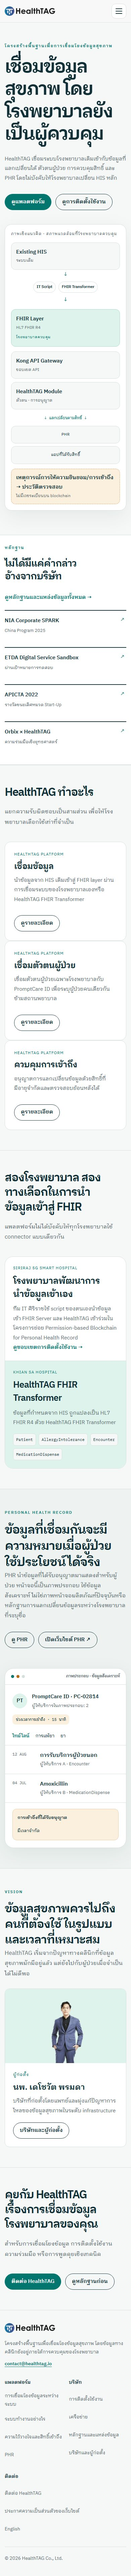
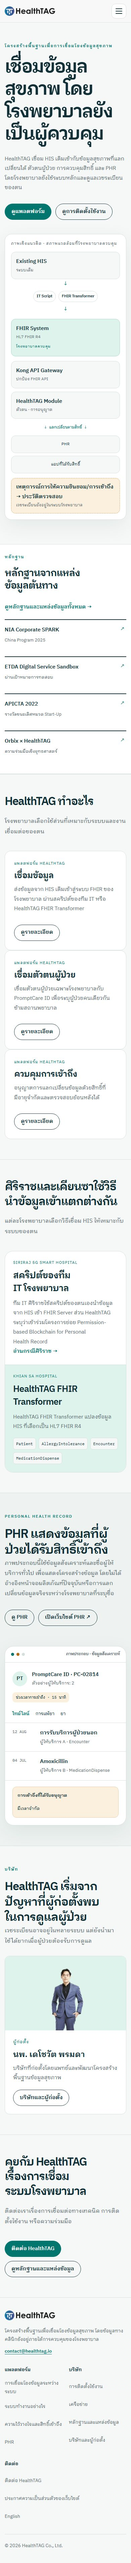
refactor: simplify public copy and network labels

Changed region(s): [[0.0308, 0.0312, 0.9538, 0.9352], [0.9231, 0.2494, 0.9538, 0.2805], [0.8, 0.4364, 0.8308, 0.4676]]

diff --git a/src/data/site-content.ts b/src/data/site-content.ts
@@ -4,32 +4,32 @@ export type PageCopy = { label: string; title: string; intro: string; sections: 
 
 export const pageContent: Record<string, Record<Locale, PageCopy>> = {
   interoperability: {
-    th:{label:'การเชื่อมโยงข้อมูลระหว่างระบบ',title:'เชื่อม HIS เดิมเข้าสู่ FHIR โดยไม่บังคับให้ใช้วิธีนำข้อมูลเข้าแบบเดียว',intro:'โรงพยาบาลสามารถใช้การเชื่อมระบบที่ทีม IT พัฒนาเอง หรือใช้ HealthTAG FHIR Transformer เพื่อนำข้อมูลเข้าสู่ FHIR layer',sections:[{heading:'ชุดระบบ FHIR ปัจจุบัน',body:'HAPI FHIR Server ใช้มาตรฐาน HL7 FHIR R4 และใช้ PostgreSQL เป็นชั้นจัดเก็บข้อมูล'},{heading:'ขอบเขต API',body:'Kong API Gateway ปกป้อง HAPI FHIR API ส่วน HealthTAG Module หรือ Hospital API ทำงานภายในเครือข่ายโรงพยาบาล'},{heading:'ขอบเขต FHIR Transformer',body:'การติดตั้งที่ยืนยันแล้วในปัจจุบันสร้าง Patient, AllergyIntolerance, Encounter และ MedicationDispense'}]},
-    en:{label:'Data Interoperability',title:'Connect existing HIS systems to FHIR without forcing one ingestion path.',intro:'Hospitals can use their own IT integration or HealthTAG FHIR Transformer to populate the FHIR layer.',sections:[{heading:'Current FHIR stack',body:'HAPI FHIR Server implements HL7 FHIR R4 with PostgreSQL as the persistence layer.'},{heading:'API boundary',body:'Kong API Gateway protects the HAPI FHIR API while HealthTAG Module, or Hospital API, runs inside the hospital network.'},{heading:'FHIR Transformer scope',body:'The currently described Transformer implementation creates Patient, AllergyIntolerance, Encounter, and MedicationDispense resources.'}]}
+    th:{label:'การเชื่อมโยงข้อมูลระหว่างระบบ',title:'เชื่อม HIS เดิมกับ FHIR ที่โรงพยาบาลควบคุม',intro:'โรงพยาบาลเลือกใช้สคริปต์ของทีม IT หรือ HealthTAG FHIR Transformer เพื่อนำข้อมูลเข้าสู่ FHIR',sections:[{heading:'ระบบ FHIR',body:'HAPI FHIR Server ใช้มาตรฐาน HL7 FHIR R4 และจัดเก็บข้อมูลด้วย PostgreSQL'},{heading:'การปกป้อง API',body:'Kong API Gateway ปกป้อง HAPI FHIR API ส่วน HealthTAG Module หรือ Hospital API ทำงานภายในเครือข่ายโรงพยาบาล'},{heading:'FHIR resources ที่ใช้งาน',body:'การติดตั้งที่เคียนซาใช้ Patient, AllergyIntolerance, Encounter และ MedicationDispense'}]},
+    en:{label:'Data Interoperability',title:'Connect an existing HIS to hospital-controlled FHIR.',intro:'Hospitals can use an IT-managed script or HealthTAG FHIR Transformer to send data to FHIR.',sections:[{heading:'FHIR system',body:'HAPI FHIR Server implements HL7 FHIR R4 and stores data in PostgreSQL.'},{heading:'API protection',body:'Kong API Gateway protects the HAPI FHIR API. HealthTAG Module, or Hospital API, runs inside the hospital network.'},{heading:'FHIR resources in use',body:'The Khian Sa implementation uses Patient, AllergyIntolerance, Encounter, and MedicationDispense.'}]}
   },
   phr:{
-    th:{label:'Personal Health Record',title:'หนึ่งคน หลายโรงพยาบาล มุมมองข้อมูลที่เชื่อมกัน',intro:'PHR เป็นชั้นแอปพลิเคชันที่นำข้อมูลซึ่งได้รับอนุญาตมาแสดงในมุมมองเดียวสำหรับผู้ป่วย',sections:[{heading:'PromptCare ID',body:'HealthTAG Module เชื่อมตัวตนผู้ป่วยเฉพาะโรงพยาบาลกับ PromptCare ID เพื่อช่วยจับคู่ผู้ป่วยคนเดียวกันข้ามผู้ให้บริการ'},{heading:'การเข้าถึงสำหรับผู้ป่วย',body:'PHR ใช้ข้อมูลจาก FHIR และชั้นการอนุญาต เพื่อให้ผู้ป่วยเข้าถึงข้อมูลที่ได้รับสิทธิ์โดยไม่ต้องสร้างฐานข้อมูลเวชระเบียนชุดใหม่แยกจากโรงพยาบาล'}]},
-    en:{label:'Personal Health Record',title:'One patient. Multiple providers. One connected view.',intro:'The PHR is the patient-facing application layer that presents authorized records from multiple providers in one view.',sections:[{heading:'PromptCare ID',body:'HealthTAG Module links hospital-local patient identities with a PromptCare ID to support matching the same person across providers.'},{heading:'Patient-facing access',body:'The PHR uses the FHIR and authorization layers to present permitted records without creating a separate replacement clinical database.'}]}
+    th:{label:'Personal Health Record',title:'ข้อมูลที่ได้รับอนุญาตในมุมมองเดียว',intro:'PHR แสดงข้อมูลที่ผู้ป่วยได้รับสิทธิ์เข้าถึงจากระบบของโรงพยาบาล',sections:[{heading:'PromptCare ID',body:'HealthTAG Module เชื่อมตัวตนผู้ป่วยของแต่ละโรงพยาบาลกับ PromptCare ID เพื่อจับคู่ข้อมูลของคนเดียวกัน'},{heading:'การเข้าถึงสำหรับผู้ป่วย',body:'PHR อ่านข้อมูล FHIR ที่ได้รับอนุญาตและนำมาแสดง โดยไม่สร้างฐานข้อมูลเวชระเบียนอีกชุด'}]},
+    en:{label:'Personal Health Record',title:'Authorized health records in one view.',intro:'The PHR presents records that a patient is authorized to access from hospital systems.',sections:[{heading:'PromptCare ID',body:'HealthTAG Module links each hospital patient identity to PromptCare ID so records can be matched to the same person.'},{heading:'Patient access',body:'The PHR reads authorized FHIR records from hospital systems and presents them to the patient.'}]}
   },
   'how-it-works':{
-    th:{label:'ระบบทำงานอย่างไร',title:'Connect → Standardize → Identify → Authorize → Exchange → Audit',intro:'แต่ละส่วนมีหน้าที่แยกกันชัดเจน ตั้งแต่การนำข้อมูลเข้าไปจนถึงการแลกเปลี่ยนและตรวจสอบย้อนหลัง',sections:[{heading:'1. เชื่อมข้อมูล',body:'ข้อมูลจาก HIS เข้าสู่ FHIR layer ผ่านสคริปต์ของโรงพยาบาลหรือ HealthTAG FHIR Transformer'},{heading:'2. ทำให้เป็นมาตรฐาน',body:'ข้อมูลถูกแทนในรูปแบบ HL7 FHIR R4 เพื่อให้ระบบปลายทางใช้โครงสร้างข้อมูลร่วมกัน'},{heading:'3. เชื่อมตัวตน',body:'HealthTAG Module เชื่อมตัวตนผู้ป่วยเฉพาะโรงพยาบาลกับ PromptCare ID เพื่อรองรับข้อมูลจากหลายผู้ให้บริการ'},{heading:'4. อนุญาตสิทธิ์',body:'ระบบตรวจว่าผู้ขอมีสิทธิ์เข้าถึงข้อมูลชุดนั้นในช่วงเวลาที่กำหนดหรือไม่'},{heading:'5. แลกเปลี่ยน',body:'ข้อมูล FHIR ถูกส่งออกผ่านเส้นทางที่ได้รับอนุญาต'},{heading:'6. ตรวจสอบย้อนหลัง',body:'เหตุการณ์การให้ความยินยอมและการเข้าถึงถูกบันทึกเพื่อตรวจสอบย้อนหลัง'}]},
-    en:{label:'How It Works',title:'Connect → Standardize → Identify → Authorize → Exchange → Audit',intro:'Each layer has a distinct responsibility from data ingestion through authorized exchange and auditability.',sections:[{heading:'1. Connect',body:'HIS data enters the FHIR layer through a hospital IT script or HealthTAG FHIR Transformer.'},{heading:'2. Standardize',body:'Clinical information is represented as HL7 FHIR R4 so downstream systems share a common structure.'},{heading:'3. Identify',body:'HealthTAG Module links hospital-local patient identities with PromptCare ID across providers.'},{heading:'4. Authorize',body:'The system verifies whether the requester may access the requested information for the permitted period.'},{heading:'5. Exchange',body:'FHIR data is returned only through an authorized request path.'},{heading:'6. Audit',body:'Consent and access events are recorded for later verification.'}]}
+    th:{label:'ระบบทำงานอย่างไร',title:'จาก HIS ถึงการตรวจสอบย้อนหลังใน 6 ขั้น',intro:'ภาพรวมนี้อธิบายหน้าที่ของแต่ละส่วน ตั้งแต่การนำข้อมูลเข้า FHIR จนถึงการบันทึกเหตุการณ์เข้าถึง',sections:[{heading:'1. เชื่อมข้อมูล',body:'ข้อมูลจาก HIS เข้าสู่ FHIR ผ่านสคริปต์ของโรงพยาบาลหรือ HealthTAG FHIR Transformer'},{heading:'2. ทำให้เป็นมาตรฐาน',body:'ข้อมูลอยู่ในรูปแบบ HL7 FHIR R4 เพื่อให้ระบบที่เชื่อมต่อกันใช้โครงสร้างเดียวกัน'},{heading:'3. เชื่อมตัวตน',body:'HealthTAG Module เชื่อมตัวตนผู้ป่วยของแต่ละโรงพยาบาลกับ PromptCare ID'},{heading:'4. ตรวจสอบสิทธิ์',body:'Hospital API ตรวจสิทธิ์และช่วงเวลาการเข้าถึงก่อนส่งข้อมูล'},{heading:'5. แลกเปลี่ยน',body:'ระบบส่งข้อมูล FHIR ตามสิทธิ์ไปยัง PHR หรือแอปที่ได้รับอนุญาต'},{heading:'6. บันทึกเหตุการณ์',body:'Blockchain บันทึกเหตุการณ์การให้ความยินยอมและการเข้าถึงเพื่อตรวจสอบภายหลัง'}]},
+    en:{label:'How It Works',title:'Six stages from HIS ingestion to audit.',intro:'This overview follows each responsibility from FHIR ingestion to the record of an access event.',sections:[{heading:'1. Connect',body:'HIS data enters FHIR through a hospital IT script or HealthTAG FHIR Transformer.'},{heading:'2. Standardize',body:'HL7 FHIR R4 gives connected systems a shared data structure.'},{heading:'3. Identify',body:'HealthTAG Module links each hospital patient identity to PromptCare ID.'},{heading:'4. Authorize',body:'Hospital API checks permission and the access window before returning data.'},{heading:'5. Exchange',body:'The system sends authorized FHIR data to the PHR or another approved application.'},{heading:'6. Record',body:'Blockchain records consent and access events for later review.'}]}
   },
   trust:{
-    th:{label:'ความไว้วางใจและสิทธิ์เข้าถึง',title:'แยกการดูแลข้อมูล การอนุญาต และการตรวจสอบย้อนหลังออกจากกัน',intro:'โรงพยาบาลเป็นผู้ควบคุมชั้นข้อมูลทางคลินิก ขณะที่ HealthTAG เพิ่มกลไกเชื่อมตัวตน การอนุญาต และการตรวจสอบรอบการแลกเปลี่ยนข้อมูล',sections:[{heading:'ข้อมูลทางคลินิกอยู่ที่ไหน',body:'เวชระเบียนอยู่ในโครงสร้างพื้นฐาน FHIR ฝั่งโรงพยาบาล ไม่ได้ถูกเก็บเป็นเวชระเบียนบน blockchain'},{heading:'การอนุญาตเข้าถึง',body:'HealthTAG Module อยู่ในเครือข่ายโรงพยาบาล และช่วงเวลาการเข้าถึงปัจจุบันคือ 15 นาที'},{heading:'ประวัติเหตุการณ์ที่แก้ย้อนหลังได้ยาก',body:'Blockchain ใช้บันทึกเหตุการณ์การให้ความยินยอมและการเข้าถึง ไม่ได้ใช้แทน authentication, encryption หรือ API security'}]},
-    en:{label:'Trust & Access',title:'Separate data custody, authorization, and audit responsibilities.',intro:'The hospital controls the clinical-data layer while HealthTAG adds identity, authorization, and audit mechanisms around exchange.',sections:[{heading:'Where clinical data lives',body:'Clinical records remain in hospital FHIR infrastructure and are not stored as medical records on the blockchain.'},{heading:'Access authorization',body:'HealthTAG Module runs inside the hospital network, and the current authorization window lasts 15 minutes.'},{heading:'Immutable ledger',body:'Blockchain records consent and access events as a tamper-resistant history. It does not replace authentication, encryption, or API security.'}]}
+    th:{label:'ความไว้วางใจและสิทธิ์เข้าถึง',title:'ใครดูแลข้อมูล และระบบตรวจสิทธิ์อย่างไร',intro:'โรงพยาบาลเก็บเวชระเบียนไว้ในระบบของตน ส่วน HealthTAG เชื่อมตัวตน ตรวจสิทธิ์ ปกป้อง API และบันทึกเหตุการณ์เข้าถึง',sections:[{heading:'เวชระเบียนอยู่ที่โรงพยาบาล',body:'เวชระเบียนอยู่ในโครงสร้างพื้นฐาน FHIR ของโรงพยาบาล ส่วน blockchain เก็บเฉพาะเหตุการณ์การให้ความยินยอมและการเข้าถึง'},{heading:'การตรวจสิทธิ์',body:'Hospital API ตรวจช่วงเวลาการเข้าถึง 15 นาทีที่กำหนดจากสถานะบน blockchain'},{heading:'การปกป้อง API',body:'Kong ปกป้อง HAPI FHIR API ขณะที่ authentication, encryption และการปฏิบัติการยังต้องทำงานร่วมกัน'}]},
+    en:{label:'Trust & Access',title:'Who holds the records and how access is checked.',intro:'Hospitals keep clinical records in their own systems. HealthTAG links identity, checks permission, protects the API, and records access events.',sections:[{heading:'Hospitals hold clinical records',body:'Clinical records stay in hospital FHIR infrastructure. Blockchain stores consent and access events.'},{heading:'Hospital API checks access',body:'Hospital API checks the 15-minute access window defined from blockchain state.'},{heading:'Kong protects the FHIR API',body:'Kong protects the HAPI FHIR API while authentication, encryption, and hospital operations provide other safeguards.'}]}
   },
   deployments:{
-    th:{label:'การติดตั้งใช้งาน',title:'สองการติดตั้ง สองทางเลือกในการนำข้อมูลเข้า ภายใต้สถาปัตยกรรมเดียวกัน',intro:'การใช้งานจริงแสดงให้เห็นว่า HealthTAG รองรับทั้งการเชื่อมระบบที่โรงพยาบาลพัฒนาเองและ FHIR Transformer ของ HealthTAG',sections:[{heading:'Siriraj 5G Smart Hospital',body:'HealthTAG ยืนยันการเข้าร่วมโครงการย่อย Permission-based Blockchain for Personal Health Record โดยทีม IT ศิริราชใช้สคริปต์ของตนเองนำข้อมูลจาก HIS เข้า FHIR Server และไม่ได้ใช้ HealthTAG FHIR Transformer'},{heading:'โรงพยาบาลเคียนซา',body:'ใช้ HealthTAG FHIR Transformer แปลงข้อมูลที่กำหนดจาก HIS เป็น HL7 FHIR R4 resources'}]},
-    en:{label:'Deployments',title:'Two deployments, two ingestion paths, one interoperability architecture.',intro:'Real deployments demonstrate both hospital-developed integration and HealthTAG FHIR Transformer.',sections:[{heading:'Siriraj 5G Smart Hospital',body:'HealthTAG participated in the Permission-based Blockchain for Personal Health Record workstream. Siriraj IT uses its own script to populate the FHIR Server and does not use HealthTAG FHIR Transformer.'},{heading:'Khian Sa Hospital',body:'HealthTAG FHIR Transformer maps selected HIS data into HL7 FHIR R4 resources.'}]}
+    th:{label:'การติดตั้งใช้งาน',title:'ศิริราชและเคียนซาใช้วิธีนำข้อมูลเข้าแตกต่างกัน',intro:'ศิริราชใช้สคริปต์ที่ทีม IT ของโรงพยาบาลพัฒนาเอง ส่วนเคียนซาใช้ HealthTAG FHIR Transformer',sections:[{heading:'Siriraj 5G Smart Hospital',body:'HealthTAG ระบุว่าเข้าร่วมโครงการย่อย Permission-based Blockchain for Personal Health Record ทีม IT ศิริราชใช้สคริปต์ของตนเองนำข้อมูลจาก HIS เข้า FHIR Server'},{heading:'โรงพยาบาลเคียนซา',body:'โรงพยาบาลเคียนซาใช้ HealthTAG FHIR Transformer แปลงข้อมูล HIS ที่เลือกเป็น HL7 FHIR R4'}]},
+    en:{label:'Deployments',title:'Siriraj and Khian Sa use different ingestion paths.',intro:'Siriraj uses a script developed by its hospital IT team. Khian Sa uses HealthTAG FHIR Transformer.',sections:[{heading:'Siriraj 5G Smart Hospital',body:'HealthTAG says it participated in the Permission-based Blockchain for Personal Health Record subproject. Siriraj IT uses its own script to send HIS data to the FHIR Server.'},{heading:'Khian Sa Hospital',body:'Khian Sa Hospital uses HealthTAG FHIR Transformer to map selected HIS data to HL7 FHIR R4.'}]}
   },
   network:{
-    th:{label:'Network',title:'เครือข่ายที่ร่วมพัฒนาสุขภาพดิจิทัล',intro:'รู้จักโรงพยาบาล สถาบัน โครงการ และเครือข่ายที่ปรากฏในเส้นทางการพัฒนาของ HealthTAG พร้อมบริบทของแต่ละความสัมพันธ์',sections:[]},
-    en:{label:'Network',title:'A network around connected care.',intro:'Hospitals, institutions, programmes, and networks represented in HealthTAG’s development, with context for each relationship.',sections:[]}
+    th:{label:'เครือข่าย',title:'การติดตั้ง โครงการ รางวัล และเครือข่ายของ HealthTAG',intro:'แต่ละองค์กรมีป้ายกำกับเพื่อบอกประเภทความสัมพันธ์อย่างชัดเจน',sections:[]},
+    en:{label:'Network',title:'HealthTAG deployments, programmes, awards, and network relationships.',intro:'Each organization is labeled by its documented relationship with HealthTAG.',sections:[]}
   },
   company:{
-    th:{label:'บริษัท',title:'สร้างการเชื่อมโยงข้อมูลจากข้อจำกัดของการดูแลจริง',intro:'HealthTAG เกิดจากมุมมองทางคลินิกว่าข้อมูลสุขภาพมีอยู่แล้ว แต่ยังไปถึงคนที่ต้องใช้ในเวลาและรูปแบบที่เหมาะสมได้ไม่ดีพอ',sections:[{heading:'วิสัยทัศน์',body:'ทำให้สุขภาพเข้าถึงได้ทุกที่ ด้วยระบบนิเวศสุขภาพที่เชื่อมต่อกัน ปลอดภัย และให้ผู้ป่วยมีสิทธิ์ต่อข้อมูลของตนเอง'},{heading:'ค่านิยม',body:'INNOVATION · CONNECT · TRUST'},{heading:'ผู้ก่อตั้ง',body:'นพ. เดโชวัต พรมดา ก่อตั้ง HealthTAG จากประสบการณ์ทำงานเป็นแพทย์และเห็นว่าปัญหาการไหลของข้อมูลควรถูกแก้ในระดับโครงสร้างพื้นฐาน'}]},
-    en:{label:'Company',title:'Building interoperability from real constraints in care.',intro:'HealthTAG began from a clinical observation: health information often exists, but does not reliably reach the people who need it in the right form and at the right time.',sections:[{heading:'Vision',body:'Make healthcare available everywhere through a connected, secure ecosystem that gives patients meaningful rights over their health information.'},{heading:'Values',body:'INNOVATION · CONNECT · TRUST'},{heading:'Founder',body:'Dechowat Promda, M.D. founded HealthTAG from his experience as a physician and the belief that health-data flow should be solved at infrastructure scale.'}]}
+    th:{label:'บริษัท',title:'HealthTAG เริ่มจากปัญหาที่แพทย์พบในการดูแลผู้ป่วย',intro:'ข้อมูลสุขภาพมีอยู่ในหลายระบบ แต่ยังตามผู้ป่วยไปถึงจุดที่ต้องใช้งานได้ยาก',sections:[{heading:'เป้าหมาย',body:'ช่วยให้ข้อมูลสุขภาพที่ได้รับอนุญาตพร้อมใช้ โดยโรงพยาบาลยังควบคุมเวชระเบียนของตน'},{heading:'แนวทาง',body:'เชื่อมระบบเดิม ทำงานกับมาตรฐาน FHIR และแยกหน้าที่ด้านตัวตน สิทธิ์ และการตรวจสอบให้ชัดเจน'},{heading:'ผู้ก่อตั้ง',body:'นพ. เดโชวัต พรมดา ก่อตั้ง HealthTAG จากประสบการณ์ทำงานเป็นแพทย์และปัญหาการไหลของข้อมูลสุขภาพที่พบในการดูแลผู้ป่วย'}]},
+    en:{label:'Company',title:'HealthTAG began with a problem its founder saw in patient care.',intro:'Health information may exist in several systems but still be difficult to use when a patient needs care.',sections:[{heading:'Goal',body:'Make authorized health information available while hospitals retain control of their records.'},{heading:'Approach',body:'Connect existing systems through FHIR and keep identity, access, and audit responsibilities clear.'},{heading:'Founder',body:'Dechowat Promda, M.D. founded HealthTAG after seeing how difficult it was to use health information across separate clinical systems.'}]}
   }
 };
 

diff --git a/src/data/evidence.ts b/src/data/evidence.ts
@@ -25,12 +25,12 @@ export const evidence: EvidenceEntry[] = [
     tag: { th: 'โครงการ', en: 'Programme' },
     title: 'Siriraj 5G Smart Hospital',
     externallyConfirmed: {
-      th: 'ศิริราชประกาศเปิดตัว Siriraj World Class 5G Smart Hospital พร้อมโครงการย่อย 9 โครงการ โดยมี “Permission based blockchain for personal health record” เป็นหนึ่งในโครงการ',
-      en: 'Siriraj announced the Siriraj World Class 5G Smart Hospital with nine subprojects, including “Permission based blockchain for personal health record.”',
+      th: 'ศิริราชประกาศเปิดตัว Siriraj World Class 5G Smart Hospital พร้อมโครงการย่อย 9 โครงการ โดยมี Permission based blockchain for personal health record เป็นหนึ่งในโครงการ',
+      en: 'Siriraj announced the Siriraj World Class 5G Smart Hospital with nine subprojects, including Permission based blockchain for personal health record.',
     },
     healthTagContext: {
-      th: 'HealthTAG ยืนยันการเข้าร่วม workstream ด้าน PHR นี้ และยืนยันว่าทีม IT ศิริราชใช้ HIS-to-FHIR script ของตนเอง ไม่ได้ใช้ HealthTAG FHIR Transformer แหล่งภายนอกข้างต้นไม่ได้เอ่ยชื่อ HealthTAG หรือยืนยันรายละเอียดการติดตั้งนี้',
-      en: 'HealthTAG confirms its participation in this PHR workstream and that Siriraj IT uses its own HIS-to-FHIR script rather than HealthTAG FHIR Transformer. The external source does not name HealthTAG or confirm those implementation details.',
+      th: 'HealthTAG ระบุว่าเข้าร่วมโครงการย่อยด้าน PHR และทีม IT ศิริราชใช้ HIS-to-FHIR script ของตนเอง ประกาศของศิริราชไม่ได้เอ่ยชื่อ HealthTAG หรือรายละเอียดการติดตั้งดังกล่าว',
+      en: 'HealthTAG says it participated in the PHR subproject and that Siriraj IT uses its own HIS-to-FHIR script. The Siriraj announcement does not mention HealthTAG or those implementation details.',
     },
     href: {
       th: 'https://si.mahidol.ac.th/th/hotnewsdetail.asp?hn_id=2728',
@@ -44,20 +44,20 @@ export const evidence: EvidenceEntry[] = [
     sourcePublicationDate: { th: 'ผลรางวัลปี 2565', en: '2022 winner list' },
     lastVerifiedDate: '2026-08-30',
     tag: { th: 'รางวัล', en: 'Award' },
-    title: 'APICTA · Cross Category – Start-Up',
+    title: 'APICTA · Cross Category: Start-Up',
     externallyConfirmed: {
-      th: 'รายชื่อผู้ชนะอย่างเป็นทางการของ APICTA ระบุ Healthtag จากประเทศไทย พร้อมผลิตภัณฑ์ “BLOCKCHAIN-BASED PHR & HEALTH DATA MANAGEMENT PLATFORM” เป็นผู้ชนะหมวด Cross Category – Start-Up',
-      en: 'APICTA’s official winner list names Healthtag of Thailand and “BLOCKCHAIN-BASED PHR & HEALTH DATA MANAGEMENT PLATFORM” as the Cross Category – Start-Up winner.',
+      th: 'รายชื่อผู้ชนะอย่างเป็นทางการของ APICTA ระบุ Healthtag จากประเทศไทย พร้อมผลิตภัณฑ์ BLOCKCHAIN-BASED PHR & HEALTH DATA MANAGEMENT PLATFORM เป็นผู้ชนะหมวด Cross Category: Start-Up',
+      en: 'APICTA’s official winner list names Healthtag of Thailand and BLOCKCHAIN-BASED PHR & HEALTH DATA MANAGEMENT PLATFORM as the Cross Category: Start-Up winner.',
     },
     healthTagContext: {
-      th: 'รางวัลนี้เป็นหลักฐานการได้รับรางวัล ไม่ใช่การอนุมัติด้านกฎระเบียบ การรับรองความปลอดภัย หรือหลักฐานการติดตั้งในระบบจริง',
-      en: 'This confirms an award, not regulatory approval, a security certification, or a production deployment.',
+      th: 'ผลการประกวดนี้ยืนยันรางวัลเท่านั้น และไม่ได้ครอบคลุมการอนุมัติด้านกฎระเบียบ การรับรองความปลอดภัย หรือการติดตั้งใช้งาน',
+      en: 'The result confirms the award only. It does not cover regulatory approval, security certification, or a deployment.',
     },
     href: { th: 'https://apicta.org/files/apicta_wl_2022.html', en: 'https://apicta.org/files/apicta_wl_2022.html' },
   },
   {
     eventDate: '2024-06-30',
-    displayDate: { th: '1 ก.ค. 2566–30 มิ.ย. 2567', en: '1 Jul 2023–30 Jun 2024' },
+    displayDate: { th: '1 ก.ค. 2566 ถึง 30 มิ.ย. 2567', en: '1 Jul 2023 to 30 Jun 2024' },
     sourceOrganization: { th: 'ETDA', en: 'ETDA' },
     sourcePublicationDate: { th: 'หน้าประกาศสถานะโครงการ', en: 'Programme status page' },
     lastVerifiedDate: '2026-08-30',
@@ -68,8 +68,8 @@ export const evidence: EvidenceEntry[] = [
       en: 'ETDA lists the HealthTAG service in its Digital Service Sandbox, including the testing period and an exit status after meeting the defined goals and success indicators.',
     },
     healthTagContext: {
-      th: 'การออกจาก Sandbox อธิบายผลการทดสอบในขอบเขตโครงการ ไม่ใช่การรับรอง การอนุมัติตามกฎระเบียบแบบครอบคลุม หรือหลักฐานว่าใช้งานจริงทุกแห่ง',
-      en: 'Sandbox exit describes testing within that programme. It is not a certification, blanket regulatory approval, or evidence of production use everywhere.',
+      th: 'สถานะออกจาก Sandbox ยืนยันผลการทดสอบตามเป้าหมายของโครงการ ส่วนการรับรอง การอนุมัติด้านกฎระเบียบ และการใช้งานจริงต้องพิจารณาแยกกัน',
+      en: 'Sandbox exit records testing against the programme goals. Certification, regulatory approval, and deployment status must be assessed separately.',
     },
     href: { th: 'https://www.etda.or.th/th/Our-Service/Digital-Service-Sandbox/announce.aspx', en: 'https://www.etda.or.th/th/Our-Service/Digital-Service-Sandbox/announce.aspx' },
   },
@@ -86,8 +86,8 @@ export const evidence: EvidenceEntry[] = [
       en: 'depa announced an MoU with HealthTAG to develop blockchain infrastructure for public services.',
     },
     healthTagContext: {
-      th: 'ประกาศนี้ยืนยันความร่วมมือสาธารณะ ไม่ได้ยืนยันการติดตั้งด้านสุขภาพหรือความสามารถที่เปิดใช้งานในระบบจริง',
-      en: 'The announcement confirms a public collaboration, not a healthcare deployment or a live production capability.',
+      th: 'ประกาศนี้บันทึกความร่วมมือสาธารณะ ส่วนการติดตั้งด้านสุขภาพและบริการที่เปิดใช้งานจริงต้องมีหลักฐานแยกต่างหาก',
+      en: 'The announcement records a public collaboration. A healthcare deployment or live service would require separate evidence.',
     },
     href: { th: 'https://www.depa.or.th/th/article-view/20230112_03', en: 'https://www.depa.or.th/th/article-view/20230112_03' },
   },
@@ -104,8 +104,8 @@ export const evidence: EvidenceEntry[] = [
       en: 'NIA names HealthTAG as one of three Thai companies selected for the 2025 China Program, including business matching and market-expansion support.',
     },
     healthTagContext: {
-      th: 'หลักฐานนี้ยืนยันการเข้าร่วมโครงการ ไม่ใช่การติดตั้งใช้งานหรือสัญญาในประเทศจีน',
-      en: 'This confirms programme participation, not a deployment or contract in China.',
+      th: 'แหล่งข้อมูลยืนยันการเข้าร่วมโครงการ โดยไม่ได้ระบุการติดตั้งใช้งานหรือสัญญาในประเทศจีน',
+      en: 'The source confirms programme participation and does not describe a deployment or contract in China.',
     },
     href: { th: 'https://www.nia.or.th/Shanghai-CorporateSPARK2025', en: 'https://www.nia.or.th/Shanghai-CorporateSPARK2025' },
   },
@@ -122,8 +122,8 @@ export const evidence: EvidenceEntry[] = [
       en: 'ODESS profiles HealthTAG as a Thai digital-health initiative addressing fragmented health data, interoperability, patient access, and the use of HL7 FHIR.',
     },
     healthTagContext: {
-      th: 'นี่คือบทความแนะนำโครงการจากแหล่งภายนอก ไม่ใช่รางวัล การรับรอง หรือการยืนยันการติดตั้งรายแห่ง',
-      en: 'This is an external project profile, not an award, certification, or confirmation of a specific deployment.',
+      th: 'บทความนี้เป็นข้อมูลแนะนำโครงการจากแหล่งภายนอก และไม่ได้ระบุรางวัล การรับรอง หรือการติดตั้งในสถานพยาบาลแห่งใด',
+      en: 'This external profile describes the project. It does not record an award, certification, or a specific hospital deployment.',
     },
     href: { th: 'https://www.odess.io/en/initiative/decentralized-health-care-empowering-well-being-countrywide/', en: 'https://www.odess.io/en/initiative/decentralized-health-care-empowering-well-being-countrywide/' },
   },
@@ -140,8 +140,8 @@ export const evidence: EvidenceEntry[] = [
       en: 'KASIKORNBANK announced a collaboration between Orbix Technology and HealthTAG, referring to HealthTAG Wallet, HL7 FHIR, Quarix, and system testing.',
     },
     healthTagContext: {
-      th: 'ประกาศระบุว่าการพัฒนานวัตกรรมทางการเงินบางส่วนยังเป็นเรื่องในอนาคต และต้องขออนุมัติจากหน่วยงานกำกับก่อนให้บริการเชิงพาณิชย์ จึงไม่ควรสื่อว่าความสามารถเหล่านั้นเปิดใช้งานจริงแล้ว',
-      en: 'The announcement says some financial innovations remained under future discussion and would require regulatory approval before commercial service. Those capabilities should not be presented as live.',
+      th: 'ประกาศระบุว่านวัตกรรมทางการเงินบางส่วนยังอยู่ระหว่างการหารือ และต้องได้รับอนุมัติจากหน่วยงานกำกับก่อนให้บริการเชิงพาณิชย์',
+      en: 'The announcement says some financial services remained under discussion and would require regulatory approval before commercial launch.',
     },
     href: { th: 'https://www.kasikornbank.com/th/news/pages/healthtag.aspx', en: 'https://www.kasikornbank.com/en/news/pages/healthtag.aspx' },
   },

diff --git a/src/data/partners.ts b/src/data/partners.ts
@@ -33,42 +33,42 @@ export interface NetworkGroup {
   introduction: Localized;
   organizations: NetworkOrganization[];
 }
-const listing: Localized = { th: 'รายชื่อในเครือข่ายเดิม', en: 'Historical network listing' };
+const listing: Localized = { th: 'เครือข่าย HealthTAG', en: 'HealthTAG network' };
 export const networkGroups: NetworkGroup[] = [
   {
     id: 'healthcare',
     title: { th: 'โรงพยาบาลและสถาบันการแพทย์', en: 'Hospitals & medical institutions' },
-    introduction: { th: 'องค์กรด้านการดูแลสุขภาพที่ปรากฏในเครือข่ายเดิมของ HealthTAG', en: 'Healthcare organizations represented in HealthTAG’s earlier network.' },
+    introduction: { th: 'โรงพยาบาลและสถาบันการแพทย์ในเครือข่าย HealthTAG', en: 'Hospitals and medical institutions in the HealthTAG network.' },
     organizations: [
       { id: 'siriraj', name: { th: 'โรงพยาบาลศิริราช', en: 'Siriraj Hospital' }, logo: siriraj, relationship: { th: 'กรณีศึกษาการติดตั้งภายใต้โครงการ Siriraj 5G Smart Hospital', en: 'Deployment case study within the Siriraj 5G Smart Hospital programme' }, badge: { th: 'การติดตั้งใช้งาน', en: 'Deployment' }, detailPage: 'deployments', featured: true },
-      { id: 'siriraj-faculty', name: { th: 'คณะแพทยศาสตร์ศิริราชพยาบาล มหาวิทยาลัยมหิดล', en: 'Faculty of Medicine Siriraj Hospital, Mahidol University' }, logo: sirirajFaculty, relationship: listing, badge: { th: 'เครือข่ายในอดีต', en: 'Historical Network' } },
-      { id: 'siph', name: { th: 'โรงพยาบาลศิริราช ปิยมหาราชการุณย์', en: 'Siriraj Piyamaharajkarun Hospital' }, logo: siph, relationship: listing, badge: { th: 'เครือข่ายในอดีต', en: 'Historical Network' } },
-      { id: 'thammasat', name: { th: 'โรงพยาบาลธรรมศาสตร์เฉลิมพระเกียรติ', en: 'Thammasat University Hospital' }, logo: thammasat, relationship: listing, badge: { th: 'เครือข่ายในอดีต', en: 'Historical Network' } },
+      { id: 'siriraj-faculty', name: { th: 'คณะแพทยศาสตร์ศิริราชพยาบาล มหาวิทยาลัยมหิดล', en: 'Faculty of Medicine Siriraj Hospital, Mahidol University' }, logo: sirirajFaculty, relationship: listing, badge: { th: 'เครือข่าย', en: 'Network' } },
+      { id: 'siph', name: { th: 'โรงพยาบาลศิริราช ปิยมหาราชการุณย์', en: 'Siriraj Piyamaharajkarun Hospital' }, logo: siph, relationship: listing, badge: { th: 'เครือข่าย', en: 'Network' } },
+      { id: 'thammasat', name: { th: 'โรงพยาบาลธรรมศาสตร์เฉลิมพระเกียรติ', en: 'Thammasat University Hospital' }, logo: thammasat, relationship: listing, badge: { th: 'เครือข่าย', en: 'Network' } },
       // The site owner confirmed this original logo's identity on 2026-08-30.
-      { id: 'khon-kaen-medicine', name: { th: 'คณะแพทยศาสตร์ มหาวิทยาลัยขอนแก่น', en: 'Faculty of Medicine, Khon Kaen University' }, logo: khonKaenMedicine, relationship: listing, badge: { th: 'เครือข่ายในอดีต', en: 'Historical Network' } },
+      { id: 'khon-kaen-medicine', name: { th: 'คณะแพทยศาสตร์ มหาวิทยาลัยขอนแก่น', en: 'Faculty of Medicine, Khon Kaen University' }, logo: khonKaenMedicine, relationship: listing, badge: { th: 'เครือข่าย', en: 'Network' } },
     ],
   },
   {
     id: 'thailand',
     title: { th: 'องค์กรและโครงการในประเทศไทย', en: 'Thai organizations & programmes' },
-    introduction: { th: 'ความร่วมมือ โครงการทดสอบ และเครือข่ายนวัตกรรม โดยแยกประเภทความสัมพันธ์ไว้กับแต่ละองค์กร', en: 'Collaboration, testing programmes, and innovation networks, labeled by relationship.' },
+    introduction: { th: 'หน่วยงานไทยในเครือข่าย โครงการ และความร่วมมือของ HealthTAG', en: 'Thai organizations in the HealthTAG network, programmes, and public collaborations.' },
     organizations: [
       { id: 'depa', name: { th: 'depa', en: 'depa' }, logo: depa, relationship: { th: 'บันทึกความเข้าใจด้านโครงสร้างพื้นฐาน blockchain สำหรับบริการประชาชน', en: 'Public MoU on blockchain infrastructure for public services' }, badge: { th: 'ความร่วมมือสาธารณะ', en: 'Public Collaboration' }, detailPage: 'evidence' },
-      { id: 'etda', name: { th: 'ETDA', en: 'ETDA' }, logo: etda, relationship: { th: 'Digital Service Sandbox ไม่ใช่การรับรอง', en: 'Digital Service Sandbox, not a certification' }, badge: { th: 'Sandbox', en: 'Sandbox' }, detailPage: 'evidence' },
-      { id: 'ticta', name: { th: 'Thailand ICT Awards (TICTA)', en: 'Thailand ICT Awards (TICTA)' }, logo: ticta, relationship: { th: 'เวทีรางวัลในข้อมูลเครือข่ายเดิม', en: 'Awards programme in legacy material' }, badge: { th: 'รางวัล', en: 'Award' } },
+      { id: 'etda', name: { th: 'ETDA', en: 'ETDA' }, logo: etda, relationship: { th: 'Digital Service Sandbox ดูขอบเขตผลการทดสอบได้ที่หน้าหลักฐาน', en: 'Digital Service Sandbox; see Evidence for the testing scope' }, badge: { th: 'Sandbox', en: 'Sandbox' }, detailPage: 'evidence' },
+      { id: 'ticta', name: { th: 'Thailand ICT Awards (TICTA)', en: 'Thailand ICT Awards (TICTA)' }, logo: ticta, relationship: { th: 'ความสัมพันธ์ด้านรางวัลของ HealthTAG', en: 'HealthTAG award relationship' }, badge: { th: 'รางวัล', en: 'Award' } },
       { id: 'nia', name: { th: 'สำนักงานนวัตกรรมแห่งชาติ (NIA)', en: 'National Innovation Agency (NIA)' }, logo: nia, relationship: { th: 'โครงการสนับสนุนการขยายตลาดและการจับคู่ธุรกิจ', en: 'Market-expansion and business-matching programme' }, badge: { th: 'โครงการ', en: 'Programme' }, detailPage: 'evidence' },
-      { id: 'sidata', name: { th: 'SiData', en: 'SiData' }, logo: sidata, relationship: listing, badge: { th: 'เครือข่ายในอดีต', en: 'Historical Network' } },
-      { id: 'sil-th', name: { th: 'Standards and Interoperability Lab–Thailand', en: 'Standards and Interoperability Lab–Thailand' }, logo: silth, relationship: listing, badge: { th: 'เครือข่ายในอดีต', en: 'Historical Network' } },
-      { id: 'kin-yoo-dee', name: { th: 'Kin Yoo Dee Platform', en: 'Kin Yoo Dee Platform' }, logo: kinYooDee, relationship: listing, badge: { th: 'เครือข่ายในอดีต', en: 'Historical Network' } },
+      { id: 'sidata', name: { th: 'SiData', en: 'SiData' }, logo: sidata, relationship: listing, badge: { th: 'เครือข่าย', en: 'Network' } },
+      { id: 'sil-th', name: { th: 'Standards and Interoperability Lab–Thailand', en: 'Standards and Interoperability Lab–Thailand' }, logo: silth, relationship: listing, badge: { th: 'เครือข่าย', en: 'Network' } },
+      { id: 'kin-yoo-dee', name: { th: 'Kin Yoo Dee Platform', en: 'Kin Yoo Dee Platform' }, logo: kinYooDee, relationship: listing, badge: { th: 'เครือข่าย', en: 'Network' } },
     ],
   },
   {
     id: 'international',
     title: { th: 'เครือข่ายและโครงการต่างประเทศ', en: 'International networks & programmes' },
-    introduction: { th: 'เวทีรางวัลและเครือข่ายสากลที่ปรากฏในข้อมูลเดิมของบริษัท', en: 'Awards and international networks documented in the earlier company material.' },
+    introduction: { th: 'รางวัลและเครือข่ายต่างประเทศของ HealthTAG', en: 'HealthTAG awards and international networks.' },
     organizations: [
-      { id: 'dit', name: { th: 'Department for International Trade (UK)', en: 'Department for International Trade (UK)' }, logo: dit, relationship: { th: 'ชื่อและตราสัญลักษณ์ตามข้อมูลเดิม', en: 'Historical name and branding' }, badge: { th: 'เครือข่ายในอดีต', en: 'Historical Network' } },
-      { id: 'apicta', name: { th: 'APICTA Awards', en: 'APICTA Awards' }, logo: apicta, relationship: { th: 'ผู้ชนะปี 2022 · หมวด Cross Category – Start-Up', en: '2022 winner · Cross Category – Start-Up' }, badge: { th: 'รางวัล', en: 'Award' }, detailPage: 'evidence' },
+      { id: 'dit', name: { th: 'Department for International Trade (UK)', en: 'Department for International Trade (UK)' }, logo: dit, relationship: { th: 'เครือข่าย HealthTAG โดยใช้ชื่อและตราสัญลักษณ์เดิม', en: 'HealthTAG network, shown with its former name and branding' }, badge: { th: 'เครือข่าย', en: 'Network' } },
+      { id: 'apicta', name: { th: 'APICTA Awards', en: 'APICTA Awards' }, logo: apicta, relationship: { th: 'ผู้ชนะปี 2022 · หมวด Cross Category: Start-Up', en: '2022 winner · Cross Category: Start-Up' }, badge: { th: 'รางวัล', en: 'Award' }, detailPage: 'evidence' },
       { id: 'aehin', name: { th: 'Asia eHealth Information Network (AeHIN)', en: 'Asia eHealth Information Network (AeHIN)' }, logo: aehin, relationship: listing, badge: { th: 'เครือข่ายนานาชาติ', en: 'International Network' } },
       { id: 'aodp', name: { th: 'Asia Open Data Partnership', en: 'Asia Open Data Partnership' }, logo: aodp, relationship: listing, badge: { th: 'เครือข่ายนานาชาติ', en: 'International Network' } },
     ],

diff --git a/tests/launch-smoke.spec.ts b/tests/launch-smoke.spec.ts
@@ -93,6 +93,15 @@ test('contact flow prepares an email draft without claiming submission', async (
   await expect(page.locator('[data-contact-status]')).toContainText('ข้อความยังไม่ถูกส่ง');
 });
 
+test('network relationships are presented as current network relationships', async ({ page }) => {
+  await page.goto('/network/');
+  await expect(page.locator('body')).not.toContainText('เครือข่ายในอดีต');
+  await expect(page.locator('.relationship-badge', { hasText: 'เครือข่าย' }).first()).toBeVisible();
+  await page.goto('/en/network/');
+  await expect(page.locator('body')).not.toContainText('Historical Network');
+  await expect(page.locator('.relationship-badge', { hasText: 'Network' }).first()).toBeVisible();
+});
+
 for (const route of ['/interoperability/', '/network/', '/contact/', '/en/evidence/']) {
   test(`basic accessibility scan passes on ${route}`, async ({ page }) => {
     await page.setViewportSize({ width: 390, height: 844 });

diff --git a/docs/LEGACY_ASSETS.md b/docs/LEGACY_ASSETS.md
@@ -6,7 +6,7 @@ The allowlist in `scripts/legacy-assets.json` records each source path, target p
 
 ## Partner marks
 
-The source `frontend/src/components/pages/NetworkPage.astro` imports 5 healthcare marks, 7 Thai marks, and 4 international marks. These are historical groupings, not proof of 16 deployments or current contracts. The new page publishes all 16 marks after the site owner confirmed the final healthcare logo's identity on 2026-08-30.
+The source `frontend/src/components/pages/NetworkPage.astro` imports 5 healthcare marks, 7 Thai marks, and 4 international marks. The site owner confirmed on 2026-08-30 that these organizations remain in the HealthTAG network. Network status does not by itself establish 16 deployments or current contracts. The new page publishes all 16 marks and labels other relationship types separately.
 
 | Original file | Identified organization |
 | --- | --- |
@@ -31,7 +31,7 @@ Names are read from the marks or explicitly confirmed by the site owner, not inf
 
 ### Khon Kaen identity confirmation
 
-The site owner identified `hospital-partner5.png` as **คณะแพทยศาสตร์ มหาวิทยาลัยขอนแก่น** on 2026-08-30. Its English label is **Faculty of Medicine, Khon Kaen University**. It is now displayed in Hospitals & medical institutions with the historical network listing relationship. This confirmation resolves image identity only; it does not establish a new production deployment or current contract. The original binary and its manifest checksum remain unchanged.
+The site owner identified `hospital-partner5.png` as **คณะแพทยศาสตร์ มหาวิทยาลัยขอนแก่น** on 2026-08-30. Its English label is **Faculty of Medicine, Khon Kaen University**. The site owner also confirmed that it remains in the HealthTAG network. This confirmation establishes its identity and network status only; it does not establish a production deployment or current contract. The original binary and its manifest checksum remain unchanged.
 
 ## Team photographs
 

diff --git a/DESIGN.md b/DESIGN.md
@@ -117,7 +117,7 @@ Network is broader than deployment.
 Relationship types must be visibly distinct, for example:
 
 - Deployment
-- Historical Network
+- Network
 - Sandbox
 - Public Collaboration
 - Award
